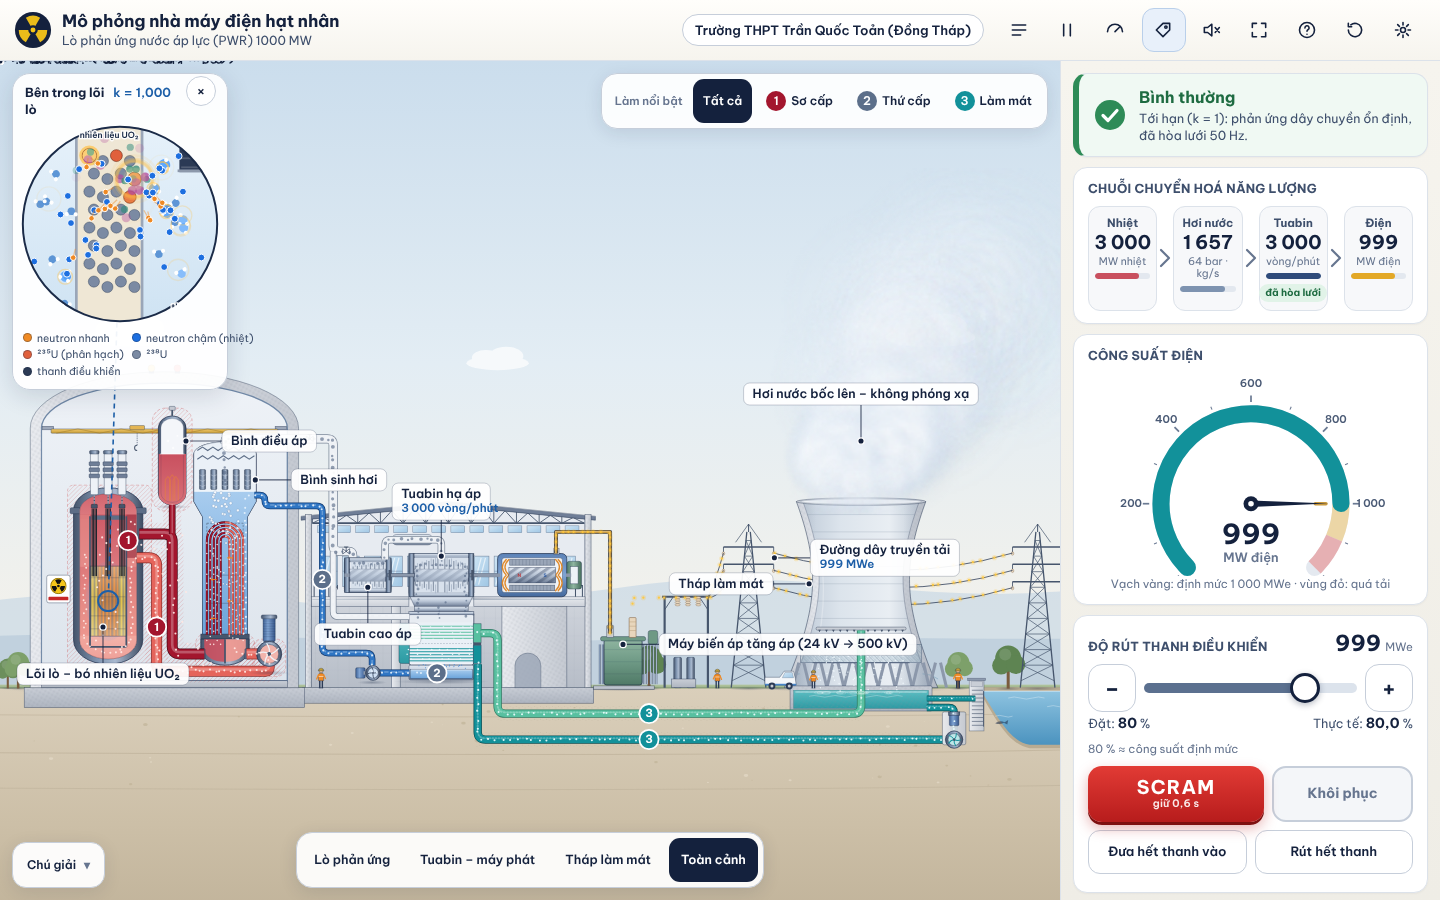
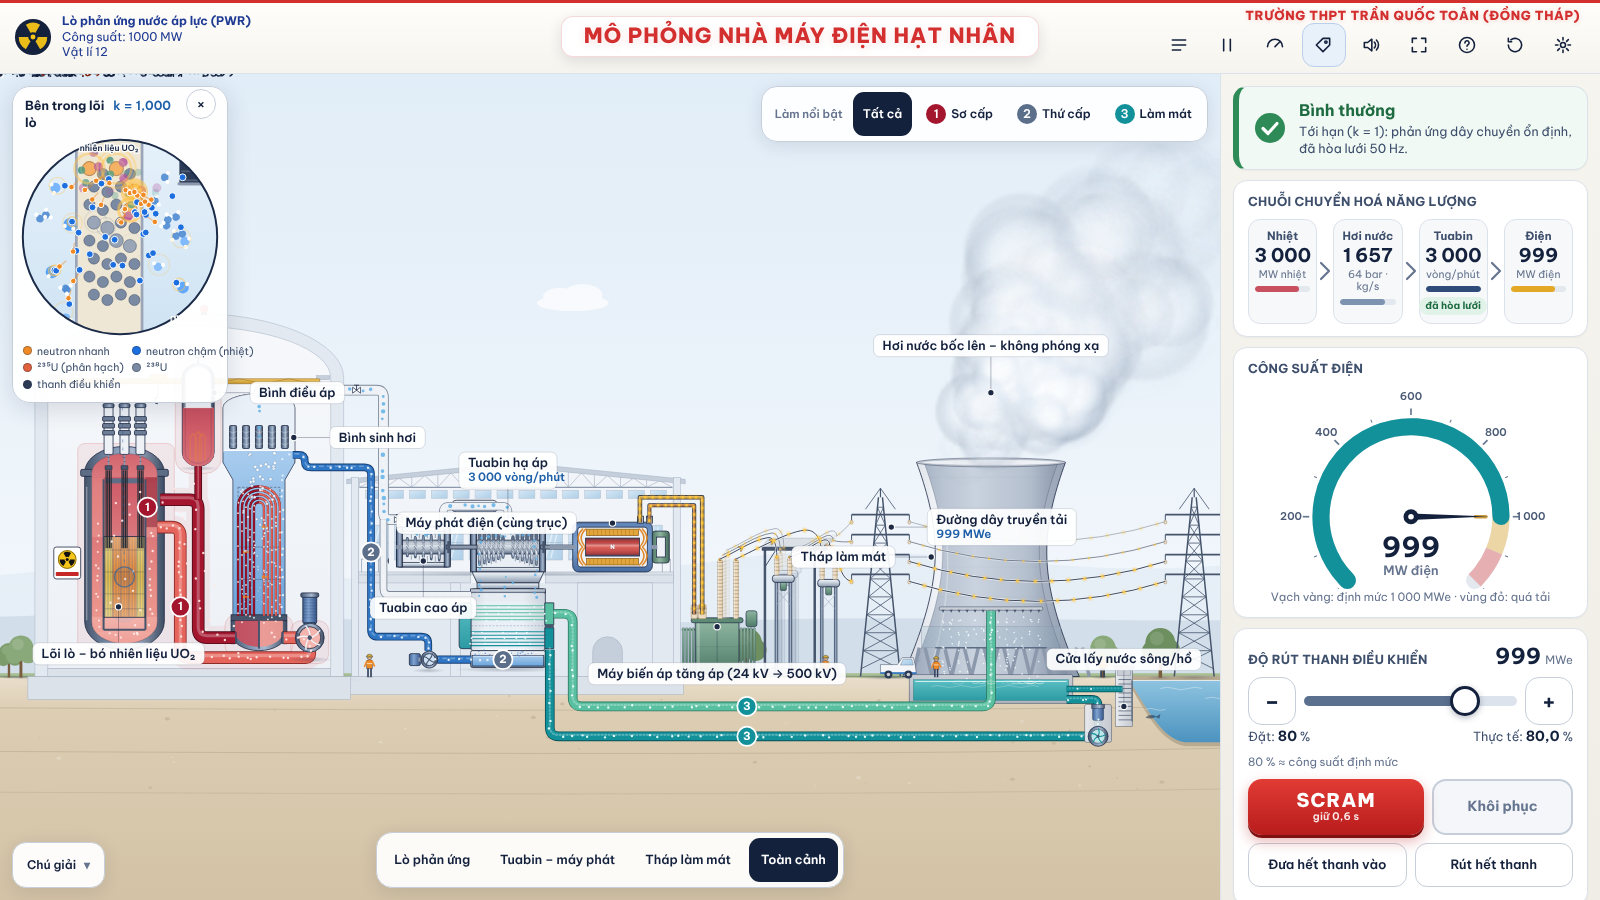
Hoàn thiện đồ hoạ: hạt thưa hơn, nhãn gọn, cập nhật ảnh hero
Claude-Session: https://claude.ai/code/session_01JD5sEmbLExvW5CXq13S38e

diff --git a/src/styles.css b/src/styles.css
@@ -29,11 +29,11 @@ button{font:inherit;color:inherit;cursor:pointer}
 #stage .part{cursor:pointer}
 #stage .part:hover{filter:none}
 #lab .lbl{pointer-events:all;cursor:pointer}
-#lab .bg{fill:rgba(255,255,255,.93);stroke:#1B2B48;stroke-opacity:.22}
+#lab .bg{fill:rgba(255,255,255,.92);stroke:#1E2A44;stroke-opacity:.18;stroke-width:.8}
 #lab .t{font:600 12.5px "Be Vietnam Pro",system-ui,sans-serif;fill:#14213D}
 #lab .live{font:600 11.5px "Be Vietnam Pro",system-ui,sans-serif;fill:#1D5FA8;font-variant-numeric:tabular-nums}
-#lab .lead{stroke:#14213D;stroke-width:1.2;fill:none;stroke-opacity:.7}
-#lab .dot{fill:#14213D;stroke:#fff;stroke-width:1.3}
+#lab .lead{stroke:#1E2A44;stroke-width:.8;fill:none;stroke-opacity:.4}
+#lab .dot{fill:#1E2A44;stroke:#fff;stroke-width:1.1}
 #lab.off .lbl{display:none!important}
 #lab .sm .t{font:700 10.5px "Be Vietnam Pro",system-ui,sans-serif;fill:#8A2A12}#lab .sm .bg{fill:rgba(255,246,222,.96);stroke:#C99A3E;stroke-opacity:.8}#lab .sm .lead{stroke-dasharray:2 2}
 #lab .bdg circle{stroke:#fff;stroke-width:2.2}

diff --git a/src/render/labels.js b/src/render/labels.js
@@ -77,7 +77,7 @@ export class Labels {
       if (ok) bd.g.setAttribute('transform', `translate(${x.toFixed(1)},${y.toFixed(1)}) scale(${Math.max(0.8, Math.min(1.2, cam.s * 1.2))})`);
     }
     if (!this.visible) return;
-    const sk = cw < 520 ? 1.6 : cw < 900 ? 1.25 : 1; const maxP = cam.s * sk < 0.5 ? 1 : cam.s * sk < 0.85 ? 2 : 3;
+    const sk = cw < 520 ? 1.6 : cw < 900 ? 1.25 : 1; const maxP = cam.s * sk < 0.62 ? 1 : cam.s * sk < 0.95 ? 2 : 3;
     const placed = (obst || []).map((o) => ({ x: o.x, y: o.y, w: o.w, h: o.h }));
     for (const bd of this.badges) { if (bd.g.style.display === 'none') continue; const bx = sx(bd.b.x), by = sy(bd.b.y); placed.push({ x: bx - 13, y: by - 13, w: 26, h: 26 }); }
     const order = [...this.items].sort((a, b) => a.L.p - b.L.p);

diff --git a/src/render/flows.js b/src/render/flows.js
@@ -171,7 +171,7 @@ export class Flows {
       const f = dr[fl.f.drive] ?? 1;
       if (f < 0.015) continue;
       const lim = fl.f.drive === 'one' ? 1 : Math.min(1, f);
-      const rr = lim * dens;
+      const rr = lim * dens * 0.7;
       ctx.fillStyle = fl.col;
       ctx.beginPath();
       const sz = fl.f.size, sp = fl.f.spread;

diff --git a/TASK.md b/TASK.md
@@ -56,7 +56,7 @@ Giữ nguyên **cấu trúc mạch** (máy phát → 2 thanh dẫn 24 kV → MBA
 - [x] Commit, push.
 
 ## Phase 6 – Hạt, nhãn, hoàn thiện
-- [ ] `flows.js`: giảm mật độ hạt dòng chảy ~30 % (không đổi tốc độ, chiều, cách điều khiển); hạt điện giữ nguyên.
-- [ ] `labels.js` + `styles.css`: nhãn gọn hơn (bóng nhẹ, viền mảnh), đường dẫn nhãn mảnh/nhạt; ở toàn cảnh chỉ hiện nhãn ưu tiên cao, nhãn còn lại hiện khi phóng to (nếu hệ nhãn có sẵn cơ chế ưu tiên `p` thì dùng nó).
-- [ ] So bộ ảnh cuối với `/tmp/goc`: nhìn toàn cảnh 2 giây phải nhận ra ngay 5 khối: lò – tuabin/máy phát – khu điện – tháp làm mát – sông; ảnh điện thoại không rối hơn.
-- [ ] `node e2e/run.mjs` (bỏ qua nếu lỗi môi trường). Cập nhật `docs/hero.png` bằng ảnh `0-toan-canh.png` mới. Commit "Hoàn thiện đồ hoạ", push, kiểm tra GitHub Actions xanh.
+- [x] `flows.js`: giảm mật độ hạt dòng chảy ~30 % (không đổi tốc độ, chiều, cách điều khiển); hạt điện giữ nguyên.
+- [x] `labels.js` + `styles.css`: nhãn gọn hơn (bóng nhẹ, viền mảnh), đường dẫn nhãn mảnh/nhạt; ở toàn cảnh chỉ hiện nhãn ưu tiên cao, nhãn còn lại hiện khi phóng to (nếu hệ nhãn có sẵn cơ chế ưu tiên `p` thì dùng nó).
+- [x] So bộ ảnh cuối với `/tmp/goc`: nhìn toàn cảnh 2 giây phải nhận ra ngay 5 khối: lò – tuabin/máy phát – khu điện – tháp làm mát – sông; ảnh điện thoại không rối hơn.
+- [x] `node e2e/run.mjs` (bỏ qua nếu lỗi môi trường). Cập nhật `docs/hero.png` bằng ảnh `0-toan-canh.png` mới. Commit "Hoàn thiện đồ hoạ", push, kiểm tra GitHub Actions xanh.
